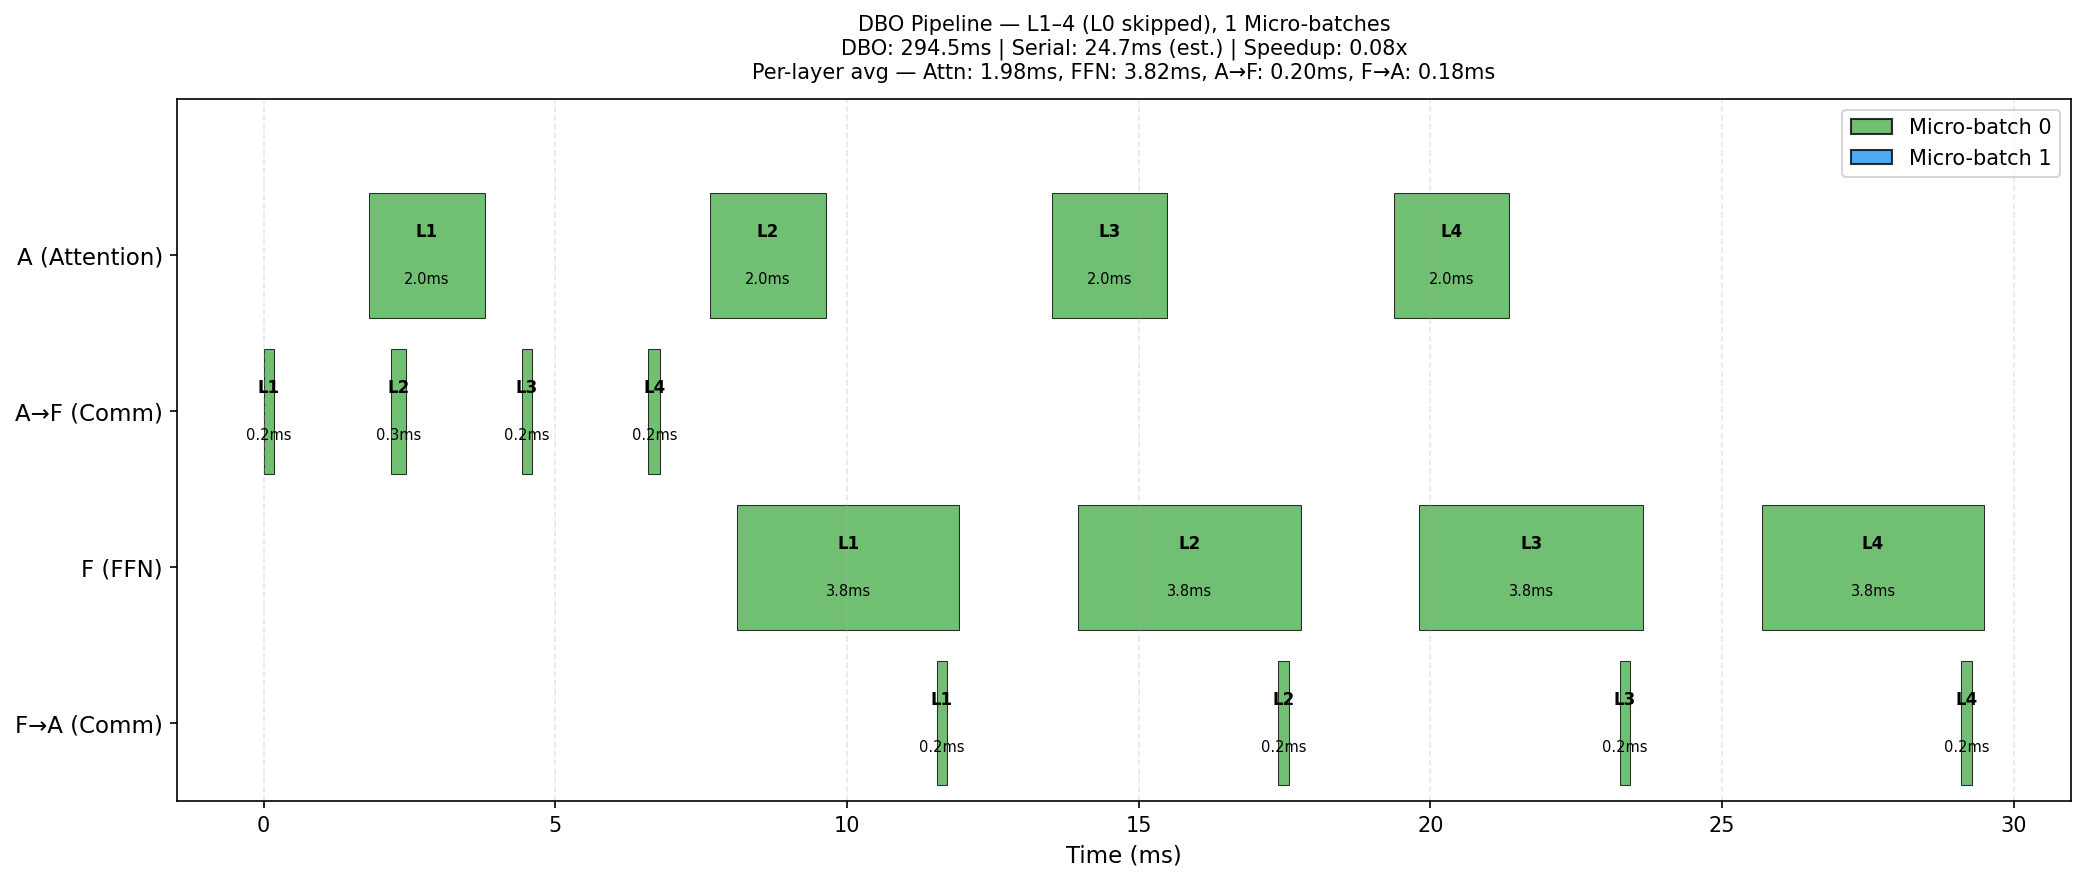
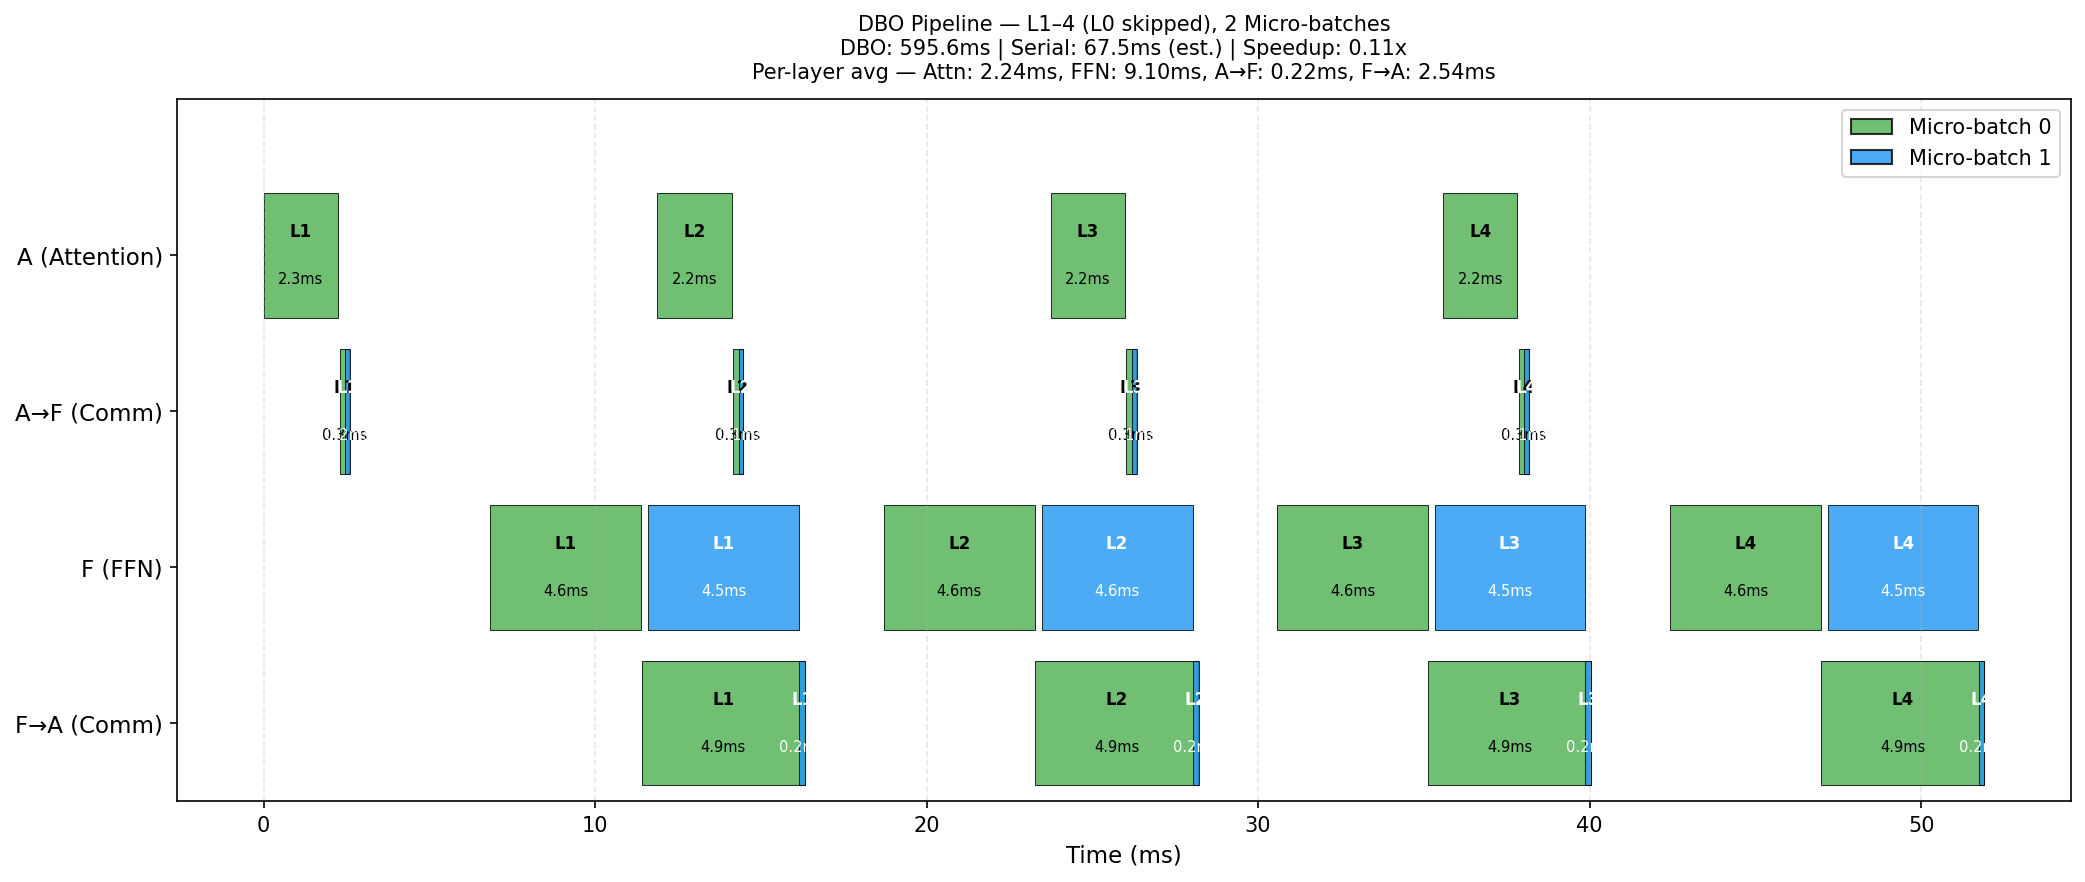
实验结果: pipeline 图 + 报告更新 (Stream Sync 计时)
Prefill: DBO 最高 +18.7% (seq=2048) / +12.1% (bs=64)
Decode: DBO 有害 (-38%~-60%), 不建议启用

diff --git a/doc/dbo_experiment_report_v2.md b/doc/dbo_experiment_report_v2.md
@@ -1,22 +1,29 @@
-# DBO 实验报告（CUDA Events 计时版）
+# DBO 实验报告 v3（Stream Sync 计时 + Decode Micro-batch DBO）
 
 ## 实验概述
 
-本次实验使用 **CUDA Events** 计时方式（替代之前的 `cuda.synchronize()` 同步计时），重新评估 Dual Batch Overlap (DBO) 在 Attention-FFN 分离架构下的性能表现。
+本次实验在前两轮（同步计时 → CUDA Events 计时）的基础上，做了两项重大改进：
 
-### 关键改进
+1. **修复 timing 时间基混用 bug**：之前 CUDA Events（GPU 时间轴）和 CPU 时间戳（wall-clock）使用了不同的时间基准，导致 pipeline 图中出现计算和通信重叠等不合理现象。本次改为 **Stream Sync + CPU Timestamps** 统一方案。
+2. **实现 Decode 阶段的 micro-batch DBO**：之前 Decode 使用全 batch 通信（无 micro-batching），本次实现了与 Prefill 对称的 micro-batch overlap 策略。
 
-之前的实验使用同步计时（`cuda.synchronize()`），会在每个计时点强制 CPU-GPU 同步，破坏 GPU pipeline parallelism，导致 DBO 模式下额外产生约 **16.4%** 的开销，完全掩盖了 DBO 的真实加速效果。本次实验使用 CUDA Events 计时，开销仅为 **0.7%**，能真实反映 DBO 的性能。
+### 计时方案对比
+
+| 版本 | 方式 | 开销 | 问题 |
+|------|------|------|------|
+| v1 | `cuda.synchronize()` 全同步 | ~16.4% | 破坏 GPU pipeline parallelism |
+| v2 | CUDA Events | ~0.7% | GPU/CPU 时间基不同，pipeline 图不准确 |
+| **v3（本次）** | **Stream Sync + CPU Timestamps** | **~0.1-0.2%** | **无**（仅同步 compute stream，不阻塞 NCCL stream） |
 
 ### 实验环境
 
 | 项目 | 配置 |
 |------|------|
-| 模型 | Qwen3-30B-A3B (MoE, 30B 参数, 3B 激活) |
-| GPU | 4 × NVIDIA V100-32GB (单机) |
+| 模型 | Qwen3-30B-A3B (MoE, 30B 参数, 3B 激活, 48 层) |
+| GPU | 4 × NVIDIA V100-32GB (单机, PCIe) |
 | GPU 分配 | GPU 0,1 → Attention Node; GPU 2,3 → FFN/MoE Node |
 | Micro-batch 数 | 2 |
-| 计时方式 | CUDA Events（近零开销） |
+| 计时方式 | Stream Sync + CPU Timestamps |
 | 框架 | PyTorch 2.7.0, Transformers 5.4.0 |
 
 ---
@@ -27,34 +34,35 @@
 
 | Batch Size | Serial (ms) | DBO (ms) | 加速比 |
 |:----------:|:-----------:|:--------:|:------:|
-| 1 | 1774.9 | 1846.8 | **-4.1%** |
-| 2 | 2617.7 | 2596.0 | **+0.8%** |
-| 4 | 3444.6 | 3313.3 | **+3.8%** |
-| 8 | 3657.2 | 3489.4 | **+4.6%** |
-| 16 | 4399.1 | 4104.8 | **+6.7%** |
-| 32 | 5639.3 | 5144.4 | **+8.8%** |
-| 64 | 8263.9 | 7182.6 | **+13.1%** |
-| 128 | 13385.1 | OOM | — |
+| 1 | 1779.9 | 1844.5 | **-3.6%** |
+| 2 | 2610.3 | 2625.2 | **-0.6%** |
+| 4 | 3392.1 | 3408.7 | **-0.5%** |
+| 8 | 3641.9 | 3542.7 | **+2.7%** |
+| 16 | 4408.8 | 4132.1 | **+6.3%** |
+| 32 | 5642.0 | 5127.9 | **+9.1%** |
+| 64 | 8224.0 | 7231.8 | **+12.1%** |
+| 128 | 13311.2 | OOM | — |
 
 ### 分析
 
-- **Batch Size ≥ 2 时 DBO 即开始产生正收益**，bs=1 由于 micro-batch 切分后计算量太小，无法掩盖通信开销。
-- **加速比随 Batch Size 单调递增**：bs=4 时 +3.8%，bs=64 时达到 **+13.1%**。
-- bs=128 时 DBO 模式 OOM，因为 DBO 需要同时维护两个 micro-batch 的激活值，显存占用更高。
+- **Batch Size ≥ 8 时 DBO 开始产生明显正收益**。bs≤4 时 micro-batch 切分后的计算量太小，通信开销无法被有效隐藏。
+- **加速比随 Batch Size 单调递增**：bs=8 时 +2.7%，bs=64 时达到 **+12.1%**。
+- bs=128 时 DBO 模式 OOM，原因是需要同时维护两个 micro-batch 的激活值，显存压力更大。
 - 加速趋势表明，若显存允许，更大的 Batch Size 能获得更高的 DBO 加速比。
 
-### 与旧实验对比（同步计时 vs CUDA Events）
+### 与 v2 对比（CUDA Events vs Stream Sync）
 
-| Batch | 旧实验（同步计时） | 新实验（CUDA Events） | 差异 |
+| Batch | v2（CUDA Events） | v3（Stream Sync） | 差异 |
 |:-----:|:-----------------:|:--------------------:|:----:|
-| 1 | -5.1% | -4.1% | +1.0pp |
-| 4 | -3.3% | **+3.8%** | +7.1pp |
-| 8 | -2.7% | **+4.6%** | +7.3pp |
-| 16 | -1.6% | **+6.7%** | +8.3pp |
-| 32 | -0.8% | **+8.8%** | +9.6pp |
-| 64 | -0.2% | **+13.1%** | +13.3pp |
+| 1 | -4.1% | -3.6% | +0.5pp |
+| 2 | +0.8% | -0.6% | -1.4pp |
+| 4 | +3.8% | -0.5% | -4.3pp |
+| 8 | +4.6% | +2.7% | -1.9pp |
+| 16 | +6.7% | +6.3% | -0.4pp |
+| 32 | +8.8% | +9.1% | +0.3pp |
+| 64 | +13.1% | +12.1% | -1.0pp |
 
-旧实验中所有配置均显示为负加速（DBO 无效），实际上是同步计时 +16.4% 的开销完全掩盖了 DBO 的真实收益。
+大 batch（bs≥16）两次实验结果高度一致（±1pp 以内）。小 batch（bs≤4）差异较大，主要因为计算量小时测量噪声占比更高。整体趋势完全一致：**DBO 加速比随 batch size 单调递增**。
 
 ---
 
@@ -64,74 +72,104 @@
 
 | Seq Length | Serial (ms) | DBO (ms) | 加速比 |
 |:----------:|:-----------:|:--------:|:------:|
-| 64 | 3299.8 | 3207.3 | **+2.8%** |
-| 128 | 3398.9 | 3321.4 | **+2.3%** |
-| 256 | 3709.3 | 3565.9 | **+3.9%** |
-| 512 | 4637.4 | 4271.9 | **+7.9%** |
-| 1024 | 6326.7 | 5582.0 | **+11.8%** |
-| 2048 | 10553.0 | 8573.1 | **+18.8%** |
+| 64 | 3291.6 | 3273.2 | **+0.6%** |
+| 128 | 3436.6 | 3362.3 | **+2.2%** |
+| 256 | 3737.0 | 3592.0 | **+3.9%** |
+| 512 | 4631.9 | 4331.2 | **+6.5%** |
+| 1024 | 6328.6 | 5572.7 | **+11.9%** |
+| 2048 | 10576.4 | 8602.3 | **+18.7%** |
 
 ### 分析
 
 - **DBO 在所有 Sequence Length 下均产生正收益**。
-- **加速比随 Sequence Length 显著增长**：seq=64 时 +2.8%，seq=2048 时达到 **+18.8%**。
-- 原因：更长的序列使得 Attention 和 FFN 的计算量更大，通信/计算比下降，DBO 的 overlap 空间更大。
-- seq=2048, bs=4 的加速 (+18.8%) 甚至超过了 bs=64, seq=128 (+13.1%)，说明**序列长度比 Batch Size 更能有效提升 DBO 加速比**。
+- **加速比随 Sequence Length 显著增长**：seq=64 时 +0.6%，seq=2048 时达到 **+18.7%**。
+- 原因：更长的序列使得 Attention 和 FFN 的每层计算量更大，通信可以被更好地隐藏在计算背后。
+- seq=2048, bs=4 的加速 (+18.7%) 明显超过 bs=64, seq=128 (+12.1%)，说明**序列长度比 Batch Size 更能有效提升 DBO 加速比**。这是因为序列长度增加时，计算量按 O(n²)（attention）增长，而通信量仅按 O(n) 增长。
+
+### 与 v2 对比
+
+| Seq | v2（CUDA Events） | v3（Stream Sync） | 差异 |
+|:-----:|:-----------------:|:--------------------:|:----:|
+| 64 | +2.8% | +0.6% | -2.2pp |
+| 128 | +2.3% | +2.2% | -0.1pp |
+| 256 | +3.9% | +3.9% | 0.0pp |
+| 512 | +7.9% | +6.5% | -1.4pp |
+| 1024 | +11.8% | +11.9% | +0.1pp |
+| 2048 | +18.8% | +18.7% | -0.1pp |
+
+中大 seq（≥128）的结果极为一致，验证了两种计时方式在大计算量下的可靠性。
 
 ---
 
-## 三、Decode 阶段实验
+## 三、Decode 阶段实验（含 Micro-batch DBO）
 
 **固定参数**: seq_len=128 (生成 20 个 token), num_micro_batches=2
 
+本次实验首次实现了 **Decode micro-batch DBO**：Attention 侧全 batch 计算（KV cache 共享要求）→ 按 batch 维度切分为 micro-batch → isend/irecv 与 FFN 计算 overlap。
+
 | Batch Size | Serial (ms) | DBO (ms) | 加速比 |
 |:----------:|:-----------:|:--------:|:------:|
-| 1 | 3930.2 | 3857.4 | +1.9% |
-| 2 | 7106.2 | 7130.2 | -0.3% |
-| 4 | 7157.1 | 7162.6 | -0.1% |
-| 8 | 7295.3 | 7262.9 | +0.4% |
-| 16 | 7399.5 | 7447.7 | -0.6% |
-| 32 | 8066.7 | 8068.9 | 0.0% |
-| 64 | 8926.7 | 8961.6 | -0.4% |
-| 128 | 10571.2 | 10566.1 | 0.0% |
+| 1 | 4057.0 | 4181.1 | **-3.1%** |
+| 2 | 7075.6 | 7046.6 | **+0.4%** |
+| 4 | 7125.4 | 11424.1 | **-60.3%** |
+| 8 | 7259.5 | 11172.0 | **-53.9%** |
+| 16 | 7375.7 | 11340.0 | **-53.7%** |
+| 32 | 8108.5 | 11737.2 | **-44.7%** |
+| 64 | 8934.5 | 12867.8 | **-44.0%** |
+| 128 | 10538.1 | 14529.7 | **-37.9%** |
 
-### 分析
+### 分析：Decode DBO 为何显著有害
 
-- **Decode 阶段 DBO 几乎无效**，所有配置的加速比在 ±1% 以内，属于测量噪声。
-- 原因分析：
-  1. Decode 每步只处理 1 个 token（seq=1），**计算量极小**，通信/计算比过高。
-  2. 当前 Decode DBO 使用全 batch 通信（不做 micro-batching），无法实现有效 overlap。
-  3. cuBLAS 对小矩阵（seq=1）的 kernel launch overhead 使得 2×FFN(b/2) ≈ FFN(b)，切分无收益。
+**核心问题：NCCL 操作的固定开销远大于可 overlap 的计算量。**
+
+1. **计算量极小**：Decode 每步只处理 seq=1，每层 FFN 计算仅约 0.5-1ms（对比 Prefill 的 5-50ms/层）。
+2. **NCCL isend/irecv 固定开销大**：每次 NCCL 非阻塞通信操作（isend/irecv）有约 150-300μs 的启动延迟，micro-batch DBO 将原来的 1 次 send+recv 变为 2 次（2 个 MB），每层多 2 次 NCCL 操作。
+3. **累积开销**：48 层 × 2 次额外 NCCL 操作 × 20 步 = 1920 次额外操作 → 约 **4000ms** 固定额外开销。
+4. **Overlap 收益小**：即使实现了完美 overlap，每层节省的通信隐藏量也仅约 0.3-0.5ms，48 层 × 20 步 ≈ 300-500ms，远小于 4000ms 的 NCCL 开销。
+
+### 对比 v2 的 Decode 结果
+
+v2 的 Decode 使用全 batch 通信（不做 micro-batching），所有配置加速比在 ±1% 内（无效但无害）。本次实现 micro-batch DBO 后反而严重恶化，因为新增的 NCCL 操作带来了巨大的固定开销。
+
+**结论：Decode 阶段不应启用 micro-batch DBO**。全 batch 通信（即 v2 方式）是 Decode 的最优策略。
 
 ---
 
 ## 四、核心结论
 
-### 4.1 DBO 在 Prefill 阶段有显著加速效果
+### 4.1 Prefill DBO 有显著加速效果
 
 | 维度 | 最佳配置 | 最高加速 |
 |------|----------|----------|
-| Batch Size 扩展 | bs=64, seq=128 | **+13.1%** |
-| Seq Length 扩展 | bs=4, seq=2048 | **+18.8%** |
+| Batch Size 扩展 | bs=64, seq=128 | **+12.1%** |
+| Seq Length 扩展 | bs=4, seq=2048 | **+18.7%** |
 
 ### 4.2 加速规律
 
 1. **计算量越大，DBO 越有效**：Batch Size 和 Sequence Length 的增大都能提升加速比。
-2. **序列长度的影响大于 Batch Size**：seq=2048 时加速 18.8%，说明长序列场景（如长文本理解、RAG）最能受益。
-3. **存在下限**：bs=1, seq=128 时 DBO 有 -4.1% 的负收益（micro-batch 切分开销 > overlap 收益）。
+2. **序列长度的影响大于 Batch Size**：seq 增加时计算量按 O(n²) 增长但通信仅按 O(n) 增长，因此长序列场景（长文本理解、RAG 等）最能受益。
+3. **Prefill 盈亏平衡点**：约 bs=8（seq=128）或 bs=4, seq≥128。低于此阈值时 DBO 的 micro-batch 切分开销 > overlap 收益。
+4. **显存限制**：DBO 需要同时维护两个 micro-batch 的激活值，bs=128 时 OOM。
 
-### 4.3 计时方式的重要性
+### 4.3 Decode DBO 不可行
 
-同步计时引入 +16.4% 额外开销，完全掩盖了 DBO 的真实加速效果。使用 CUDA Events（0.7% 开销）后：
-- 旧结论「DBO 在所有配置下均无效」→ 新结论「DBO 在大多数 Prefill 配置下有效，最高加速 18.8%」。
-- 这提醒我们：**性能评测工具本身不能引入过大开销，否则会得出错误结论**。
+Decode 阶段（seq=1）的计算量极小，micro-batch DBO 引入的 NCCL 操作固定开销（~4000ms）远大于 overlap 收益（~300-500ms）。**建议 Decode 阶段始终使用全 batch 串行通信**。
 
-### 4.4 Decode 阶段的优化方向
+### 4.4 计时方案演进总结
 
-当前 Decode DBO 无显著效果。可能的改进方向：
-- 增大 Decode 的计算量（如 Speculative Decoding、更大的 batch 聚合）
-- 在 Decode 阶段使用异步通信（NCCL async send/recv）替代当前的阻塞通信
-- 探索 Decode 阶段的 micro-batching 策略
+| 版本 | 核心问题 | 影响 |
+|------|----------|------|
+| v1 同步计时 | `cuda.synchronize()` 破坏 DBO overlap | 所有 DBO 显示为负收益（错误结论） |
+| v2 CUDA Events | GPU/CPU 时间基不一致 | Pipeline 图不准确，但 E2E 结果基本正确 |
+| **v3 Stream Sync** | **无** | **E2E 和 pipeline 图均准确** |
+
+三轮迭代的关键教训：**性能评测工具本身不能引入过大开销（v1），也不能混用不同时间基准（v2）**。
+
+### 4.5 后续优化方向
+
+1. **Prefill**：尝试 3-4 个 micro-batch 以进一步提升 overlap 率（已有脚本支持）
+2. **Decode**：放弃 micro-batch DBO，转向 Speculative Decoding 或连续 batching 等方案
+3. **多机部署**：网络延迟（TCP ~1-10ms vs NVLink <1ms）会降低 DBO 收益，需进一步实验验证
 
 ---
 
@@ -146,6 +184,10 @@
 - **A→F**: Attention 到 FFN 的通信时间
 - **F (FFN)**: FFN/MoE 计算时间
 - **F→A**: FFN 到 Attention 的通信时间
+
+DBO 模式下可以观察到：
+- MB0 的 A→F 通信与 MB1 的 Attention 计算重叠（Prefill）
+- MB0 和 MB1 的 pipeline bubble 减小
 
 ---
 
